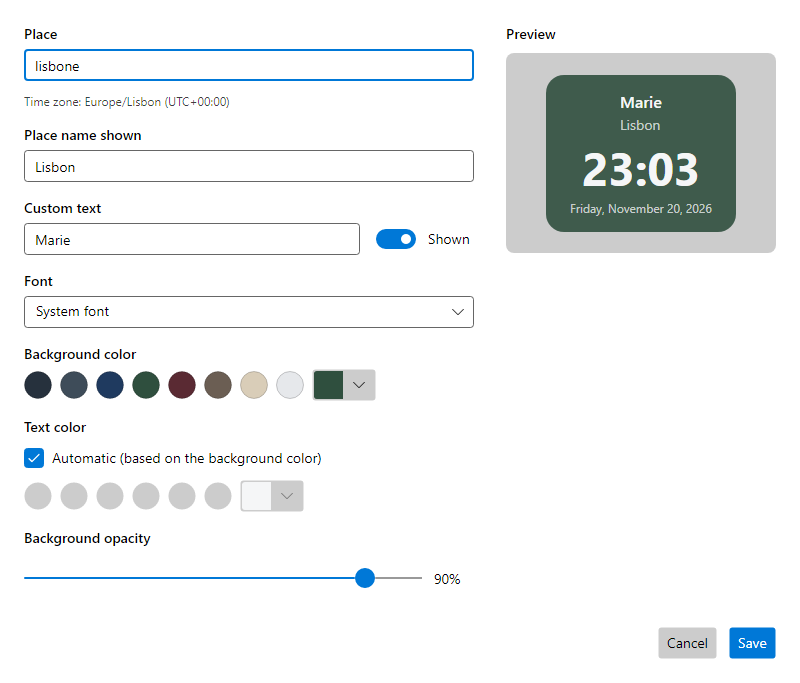
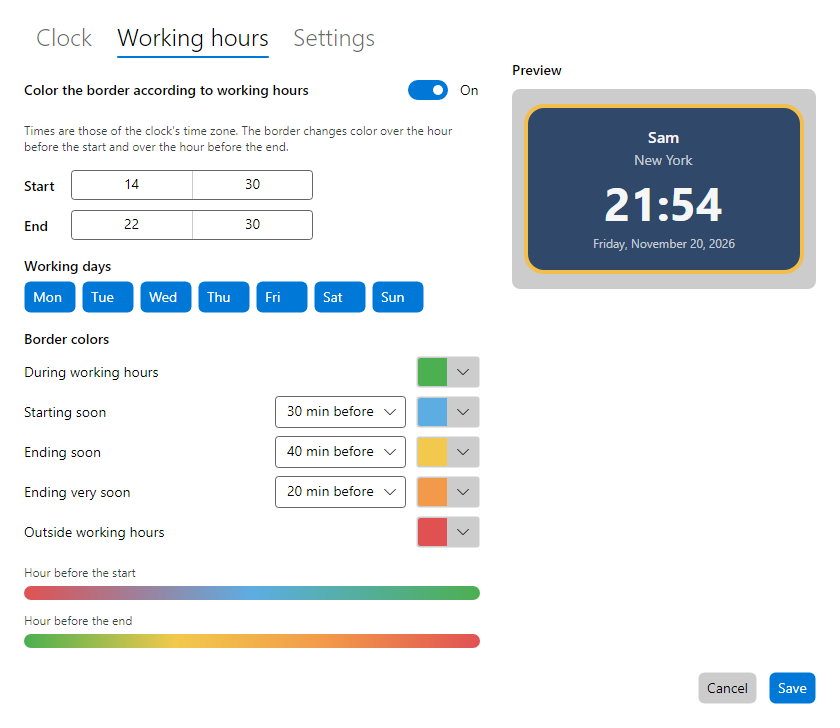
Public page: dark theme, size, working hours, app settings
- Dark screenshot first, light one below, as on the Emilio page
- New screenshot of the working hours of a clock
- Features and usage updated: clock size, working hours border, gear button,
  double-click to edit, delete confirmation, Arrange the clocks

Changed region(s): [[0.0312, 0.0307, 0.9688, 0.8917], [0.8125, 0.8917, 0.9688, 0.9839], [0.5625, 0.4305, 0.5938, 0.4612]]

diff --git a/README.md b/README.md
@@ -4,19 +4,23 @@ Time zone clocks pinned to your desktop: one widget per city or per person, in p
 
 **[Download the latest version](https://github.com/nicolasdev/worldclockr-releases/releases/latest)** for Windows or macOS.
 
-![WorldClockr with three clocks, light theme](images/worldclockr-light.png)
+![WorldClockr with three clocks, dark theme](images/worldclockr-dark.png)
 
 ## Features
 
-- **Desktop widgets**: each clock sits on the desktop, under your windows, on any screen. Drag it where you want; its position is remembered.
+- **Desktop widgets**: each clock sits on the desktop, under your windows, on any screen. Drag it where you want; its position is remembered. New clocks line up side by side.
 - **Any city, country or time zone**: search more than 34,000 cities by name (French names work too, such as "Londres"), a country ("Japon", "JP") or an IANA time zone ("Europe/Paris").
 - **Your own text**: add a name above the clock, for example the person you call in that city, and show or hide it.
 - **Plain colors**: background and text color per clock, from a sober palette or any custom color, with an adjustable background opacity, and a font per clock.
+- **Size**: every clock has the same size, adjustable from 50 to 200 %, per clock or for all of them at once.
+- **Working hours**: the border of a clock shows whether you can reach that city. It is green during its working hours, then turns yellow, orange and red before the end, and red outside them; a color announces the start. The hours, the days, the five colors and when each color shows are set per clock.
 - **A switch per clock** shows or hides its widget on the desktop.
-- 24-hour or 12-hour format, start with the computer.
-- Interface in **English, French and Spanish**, chosen in the main window; the dates follow the interface language.
+- **Light or dark theme**, 24-hour or 12-hour format, start with the computer.
+- Interface in **English, French and Spanish**; the dates follow the interface language.
 
-![Editing a clock](images/worldclockr-editor.png)
+![The same clocks in the light theme](images/worldclockr-light.png)
+
+![The working hours of a clock](images/worldclockr-editor.png)
 
 ## Install
 
@@ -41,10 +45,13 @@ The installers are not code-signed yet, so the first launch shows a warning:
 |---|---|
 | Add a clock | **Add a clock**, then search a city, a country or a time zone and pick a result (arrows and Enter work too) |
 | Move a widget | Drag it |
-| Edit a clock | **Edit** in the list, or right-click the widget → Edit… |
-| Show or hide a widget | The **On the desktop** switch in the list, or right-click the widget → Remove from the desktop |
-| Bring every widget back to the main screen | **Gather the widgets** |
-| Change the language | The language list at the top of the main window |
+| Edit a clock | Double-click it, in the list or on the desktop, or use the pencil button in the list, or right-click the widget → Edit… |
+| Change the size of the clocks | Edit a clock → **Settings** tab; tick **Apply this size to all clocks** to resize them all |
+| Color the border with the working hours | Edit a clock → **Working hours** tab |
+| Show or hide a widget | The switch under the clock in the list, or right-click the widget → Remove from the desktop |
+| Delete a clock | The trash button under the clock in the list, then confirm |
+| Line the widgets up on the main screen | **Arrange the clocks** |
+| Language, theme, 24-hour format, start with the computer | The gear button at the top right of the main window |
 | Open the window | The WorldClockr icon in the notification area (Windows) or the menu bar (macOS), or start WorldClockr again |
 | Quit | The same icon → **Quit**. Closing the window keeps the widgets on the desktop |
 
@@ -55,6 +62,7 @@ WorldClockr runs on your computer and sends nothing over the network. Its settin
 ## Good to know
 
 - The widgets stay just above the desktop: your windows cover them, and they show again when the desktop is clear.
+- Working hours are those of the clock's time zone.
 - Linux is not supported yet.
 
 ## Feedback
